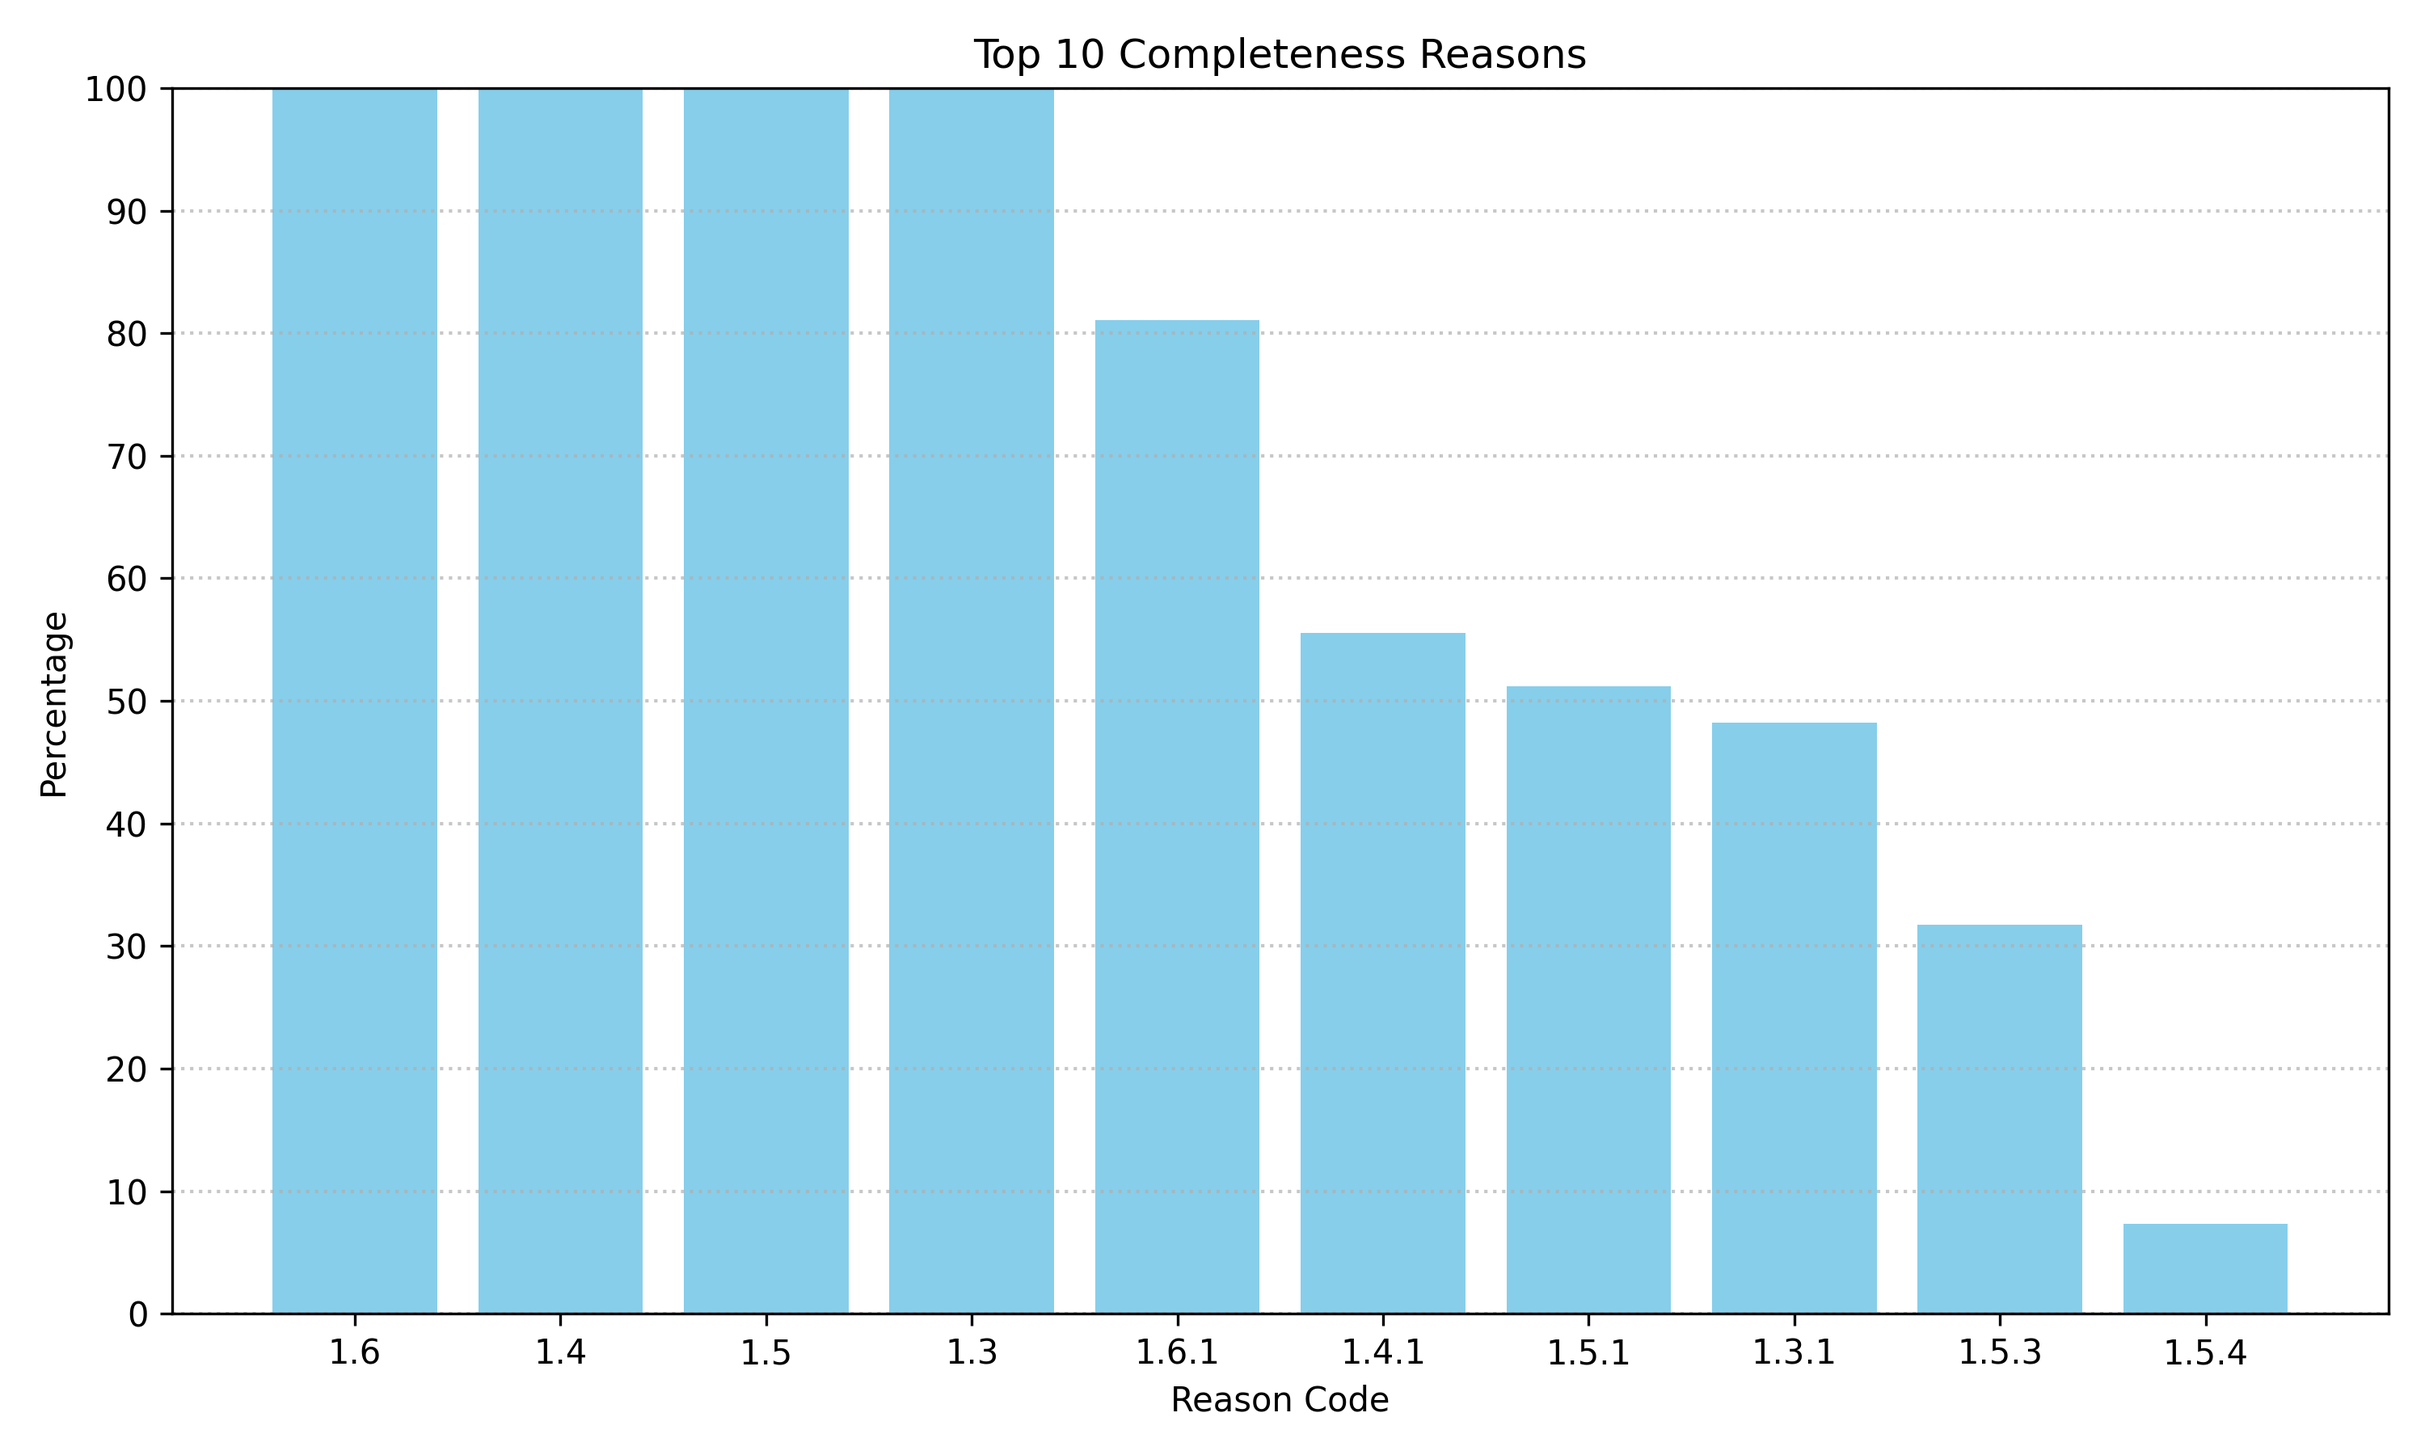
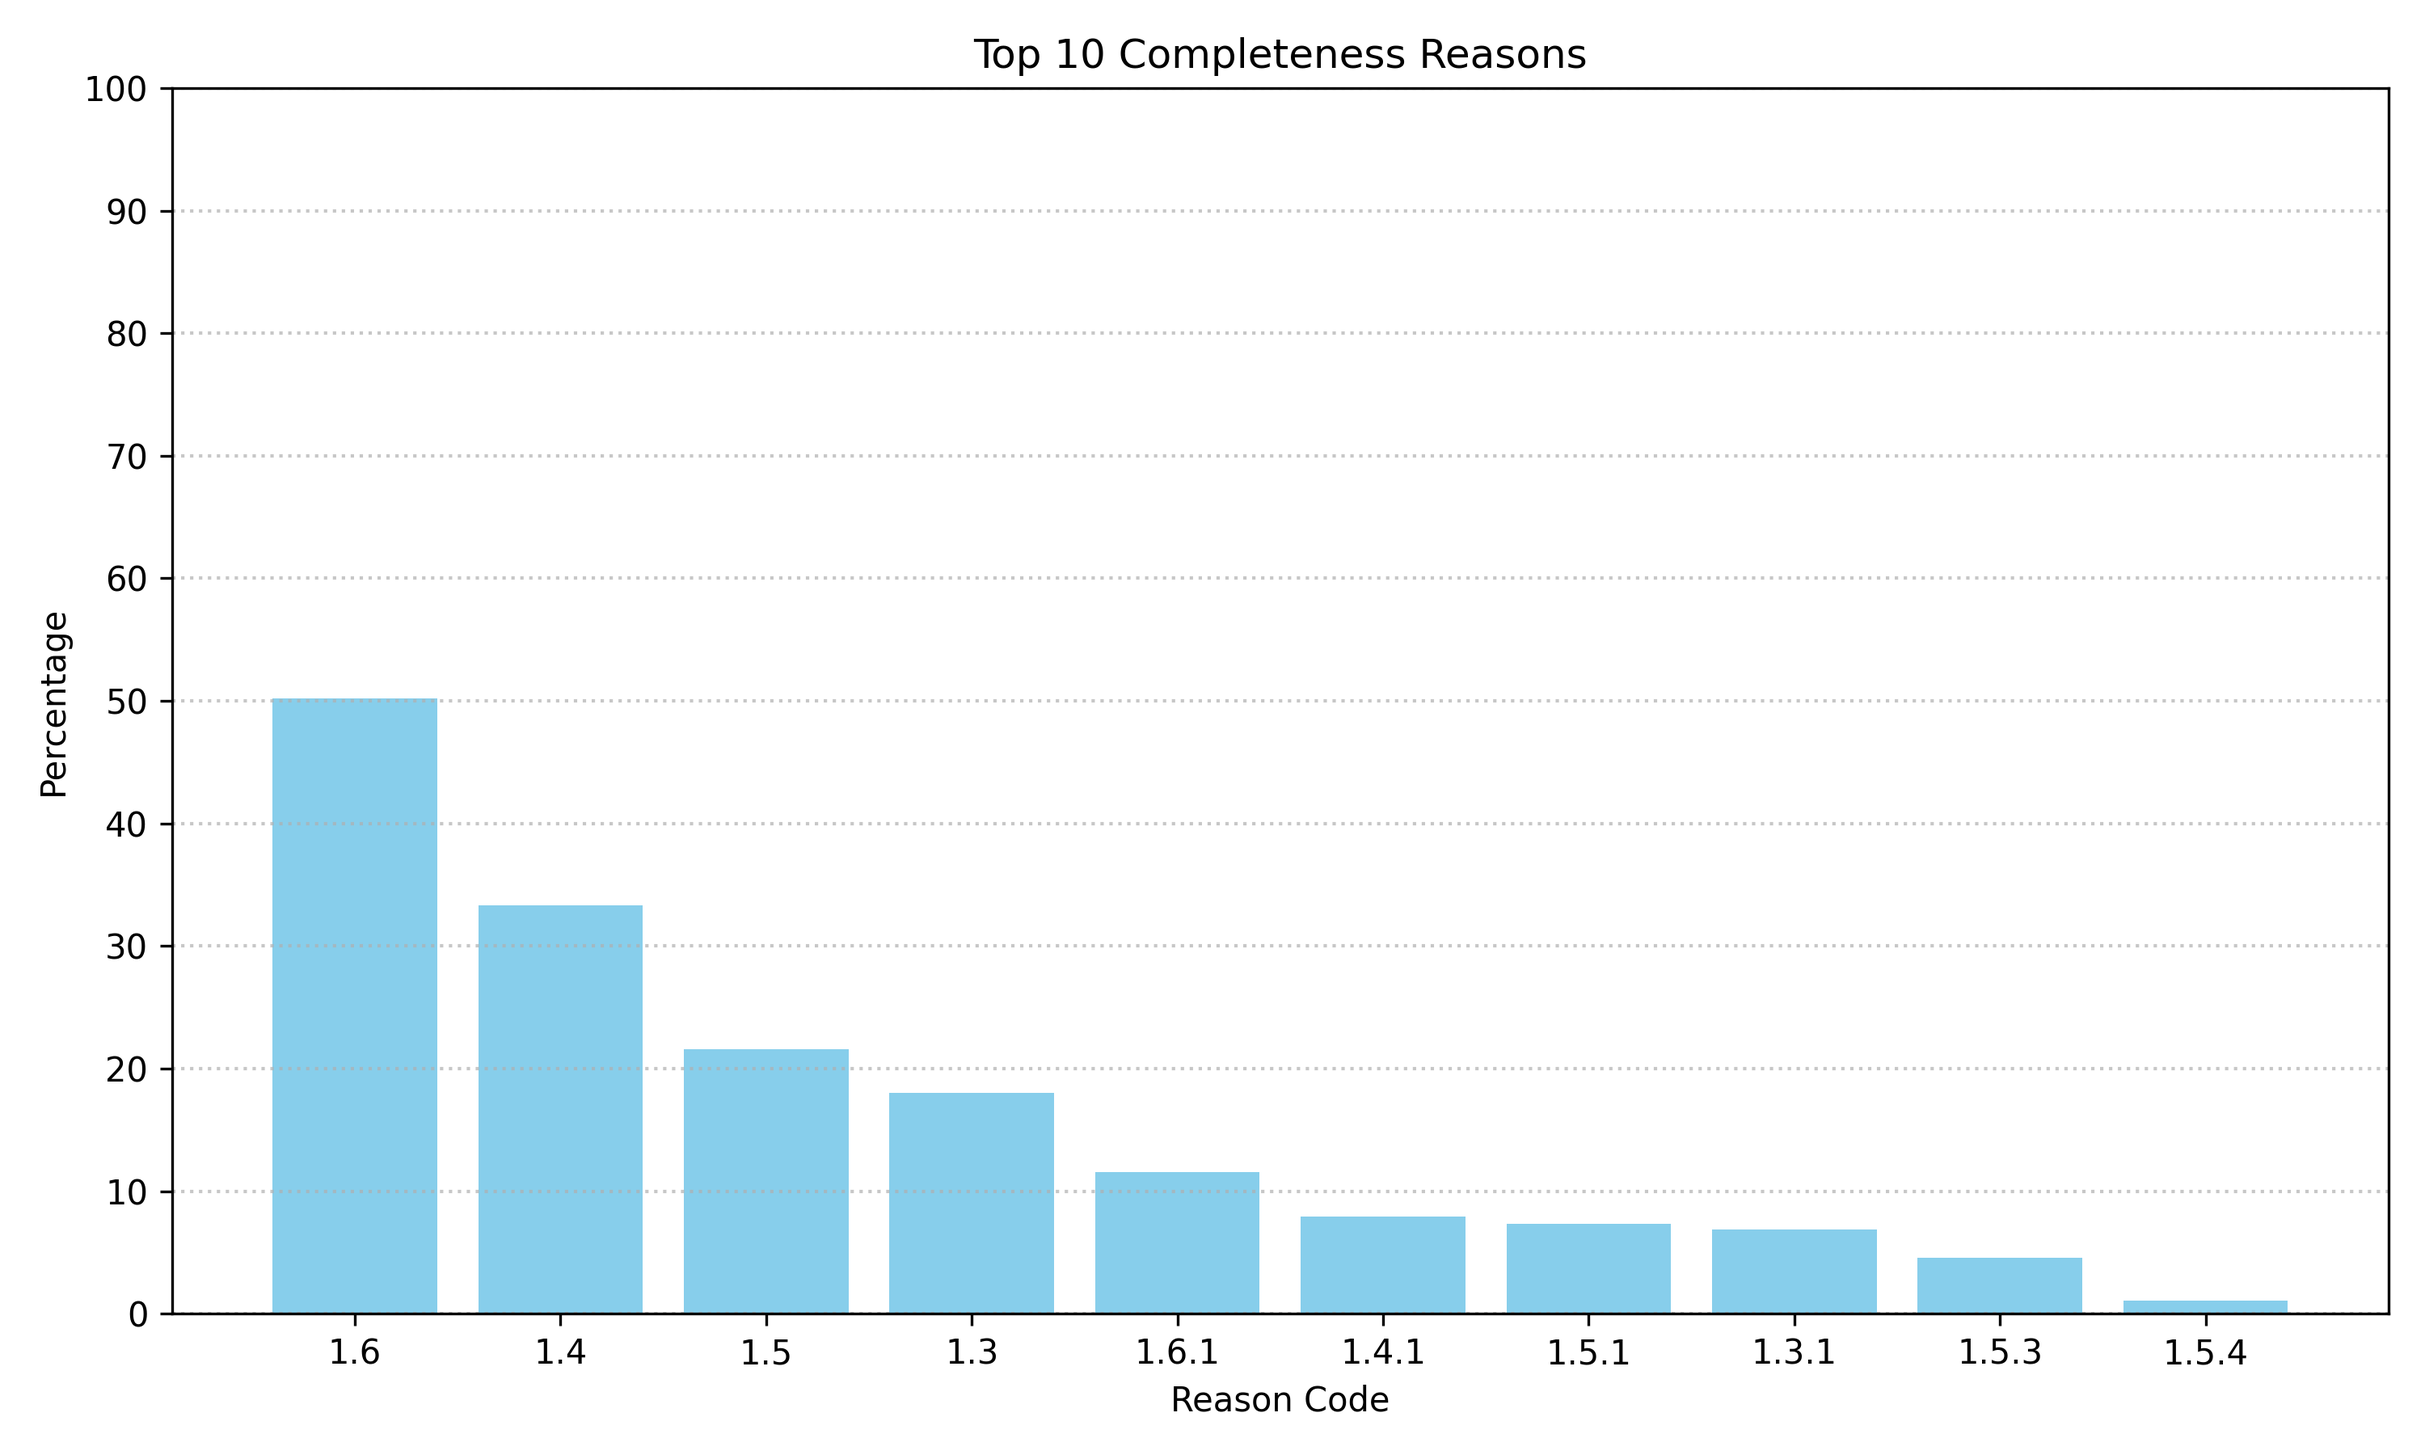
RQ1 diagrams fixed for now. Toleration added. Toleration may need to be capped.

Changed region(s): [[0.093, 0.0622, 0.961, 0.9022]]

diff --git a/evaluation_analysis/rq1_diagram_generators.py b/evaluation_analysis/rq1_diagram_generators.py
@@ -4,12 +4,15 @@ import csv
 import numpy as np
 
 from helpers import get_num_of_requirements
-from general_diagram_generators import create_reason_counts, calc_normalized_reason_counts_general
+from general_diagram_generators import create_reason_counts, calc_normalized_reason_counts_general, plot_top_10_reasons
 
 
 def generate_rq1_diagrams(evals_info):
     create_non_smelly_score_percentages(evals_info)
     create_reason_counts(evals_info, calc_normalized_reason_counts_no_smells, context = 'Non-smelly Variants Only', requested_variants = ['no_smells'], directory = 'rq1')
+    create_non_smelly_score_percentages_both_comp_corr_true(evals_info)
+    # Also creates tolerated reason counts and tolerated comp and corr true
+    create_non_smelly_score_percentages_tolerated(evals_info)
 
 
 def create_non_smelly_score_percentages(evals_info):
@@ -81,5 +84,257 @@ def create_non_smelly_score_percentages(evals_info):
     plt.savefig("evaluation_analysis/diagrams/rq1/completeness_correctness_percentages.png", dpi=300, bbox_inches='tight')
 
 
+def create_non_smelly_score_percentages_both_comp_corr_true(evals_info):
+    percentages_dict = {}
+    total_comp_corr_percentage = 0
+    for game, results in evals_info.items():
+        game_req_count = get_num_of_requirements(game)
+        game_no_smells_total_comp_corr_one = 0
+        # Checking each no-smells variant
+        for req_id_str, req_result in results['no_smells'].items():
+            if req_id_str != 'total':
+                if req_result['completeness'] == 1 and req_result['correctness'] == 1:
+                    game_no_smells_total_comp_corr_one = game_no_smells_total_comp_corr_one + 1
+        comp_corr_one_percentage = (int(game_no_smells_total_comp_corr_one) / game_req_count) * 100
+        percentages_dict[game] = {
+            'comp_corr_percentage': comp_corr_one_percentage,
+        }
+        total_comp_corr_percentage = total_comp_corr_percentage + comp_corr_one_percentage
+    
+    avg_comp_corr = total_comp_corr_percentage / 5
+    percentages_dict['average'] = {
+        'comp_corr_percentage': avg_comp_corr
+    }
+
+    # Ordered keys
+    ordered_keys = ['average', 'dice_game', 'arkanoid', 'snake', 'scopa', 'pong']
+    comp_and_corr = [percentages_dict[k]["comp_corr_percentage"] for k in ordered_keys]
+
+    # Plot config
+    bar_width = 0.6
+    group_spacing = 0.4
+    num_groups = len(ordered_keys)
+    x_positions = np.arange(num_groups)
+
+    # Create plot
+    fig, ax = plt.subplots(figsize=(6, 6))
+
+    # Plot bars
+    ax.bar(x_positions, comp_and_corr, width=bar_width, color='red', label='Completeness and Correctness')
+
+    # Labels and title
+    ax.set_ylabel('Percentage')
+    chart_title = 'Comp. and Corr. Both True Percentages (Non-Smelly Variants Only)'
+    ax.set_title(chart_title)
+
+    # Correctly center tick labels under each group
+    ax.set_xticks(x_positions)
+    ax.set_xticklabels(ordered_keys, rotation=45, ha='center')  # <== ha='center' is key here
+
+    ax.set_ylim(0, 100)
+    ax.set_yticks(np.arange(0, 101, 10))
+    ax.legend()
+
+    # Optional: Horizontal grid
+    ax.yaxis.grid(True, linestyle='--', linewidth=0.5)
+
+    plt.tight_layout()
+    
+    os.makedirs("evaluation_analysis/diagrams/rq1", exist_ok=True)
+    plt.savefig("evaluation_analysis/diagrams/rq1/completeness_correctness_percentages_both_true.png", dpi=300, bbox_inches='tight')
+
+
 def calc_normalized_reason_counts_no_smells(reasons_dict):
     return calc_normalized_reason_counts_general(reasons_dict, all_evals = False)
+
+
+def create_non_smelly_score_percentages_tolerated(evals_info):
+    comp_corr_one_percentages_dict = {}
+    total_comp_corr_one_percentage = 0
+
+    percentages_dict = {}
+    reasons_dict = {
+        'completeness_reasons': {},
+        'correctness_reasons': {},
+    }
+
+    tolerated_completeness_reasons = ['1.3', '1.3.1', '1.4.1', '1.5.1', '1.6', '1.6.1']
+    tolerated_completeness_reasons_set = set(tolerated_completeness_reasons)
+    tolerated_correctness_reasons = ['2.3', '2.3.1', '2.3.2', '2.3.3', '2.4.1', '2.5.1', '2.6', '2.6.1']
+    tolerated_correctness_reasons_set = set(tolerated_correctness_reasons)
+
+    total_completeness_percentage = 0
+    total_correctness_percentage = 0
+    for game, results in evals_info.items():
+        total_comp_tol_count = 0
+        total_corr_tol_count = 0
+        game_req_count = get_num_of_requirements(game)
+        game_tolerated_comp_total = 0
+        game_tolerated_corr_total = 0
+        game_no_smells_total_comp_corr_one = 0
+        # Checking each no-smells variant
+        for req_id_str, req_result in results['no_smells'].items():
+            if req_id_str != 'total':
+                tolerate_completeness = False
+                tolerate_correctness = False
+                
+                # Toleration of less impactful smells
+                eval_completeness_reasons_set = set(req_result['completeness_reasons'])
+                eval_correctness_reasons_set = set(req_result['correctness_reasons'])
+                # The sets should not be empty
+                if eval_completeness_reasons_set and eval_completeness_reasons_set.issubset(tolerated_completeness_reasons_set):
+                    tolerate_completeness = True
+                if eval_correctness_reasons_set and eval_correctness_reasons_set.issubset(tolerated_correctness_reasons_set):
+                    tolerate_correctness = True
+                # If completeness can be tolerated and correctness only has 2.7, correctness can also be tolerated
+                elif req_result['correctness_reasons'] == ['2.7'] and tolerate_completeness:
+                    tolerate_correctness = True
+
+                if tolerate_completeness:
+                    total_comp_tol_count = total_comp_tol_count + 1
+                if tolerate_correctness:
+                    total_corr_tol_count = total_corr_tol_count + 1
+
+                # For calculating the tolerated no smelly reason percentages
+                reason_types = ['completeness_reasons', 'correctness_reasons']
+                for reason_type in reason_types:
+                    # Skipping the tolerated reasons
+                    if (reason_type == 'completeness_reasons' and tolerate_completeness) or (reason_type == 'correctness_reasons' and tolerate_correctness):
+                        continue
+                    if reason_type in req_result and req_result[reason_type]:
+                        for reason in req_result[reason_type]:
+                            if reason in reasons_dict[reason_type]:
+                                reasons_dict[reason_type][reason] = reasons_dict[reason_type][reason] + 1
+                            else:
+                                reasons_dict[reason_type][reason] = 1
+
+                completeness_to_aggregate = 1 if tolerate_completeness else req_result['completeness']
+                correctness_to_aggregate = 1 if tolerate_correctness else req_result['correctness']
+
+                # For generating comp corr one tolerated percentages
+                if completeness_to_aggregate == 1 and correctness_to_aggregate == 1:
+                    game_no_smells_total_comp_corr_one = game_no_smells_total_comp_corr_one + 1
+                
+                game_tolerated_comp_total = game_tolerated_comp_total + completeness_to_aggregate
+                game_tolerated_corr_total = game_tolerated_corr_total + correctness_to_aggregate
+
+        print(f"Game: {game}, comp tol count: {total_comp_tol_count}, corr tol count: {total_corr_tol_count}")
+        
+        # For generating comp corr one tolerated percentages
+        comp_corr_one_percentage = (int(game_no_smells_total_comp_corr_one) / game_req_count) * 100
+        comp_corr_one_percentages_dict[game] = {
+            'comp_corr_percentage': comp_corr_one_percentage,
+        }
+        total_comp_corr_one_percentage = total_comp_corr_one_percentage + comp_corr_one_percentage
+        
+        completeness_percentage = (int(game_tolerated_comp_total) / game_req_count) * 100
+        correctness_percentage = (int(game_tolerated_corr_total) / game_req_count) * 100
+        percentages_dict[game] = {
+            'completeness_percentage': completeness_percentage,
+            'correctness_percentage': correctness_percentage,
+        }
+        total_completeness_percentage = total_completeness_percentage + completeness_percentage
+        total_correctness_percentage = total_correctness_percentage + correctness_percentage
+    
+    avg_comp_corr = total_comp_corr_one_percentage / 5
+    comp_corr_one_percentages_dict['average'] = {
+        'comp_corr_percentage': avg_comp_corr
+    }
+
+    create_non_smelly_tolerated_comp_corr_one(comp_corr_one_percentages_dict)
+    
+    avg_completeness = total_completeness_percentage / 5
+    avg_correctness = total_correctness_percentage / 5
+    percentages_dict['average'] = {
+        'completeness_percentage': avg_completeness,
+        'correctness_percentage': avg_correctness,
+    }
+
+    normalized_reasons_dict = calc_normalized_reason_counts_general(reasons_dict, all_evals = False)
+
+    # Plot and save diagrams
+    plot_top_10_reasons(normalized_reasons_dict['completeness_reasons'], "Top 10 Completeness Reasons (Non-smelly Variants Only)", "completeness_reasons_tolerated.png", 'rq1')
+    plot_top_10_reasons(normalized_reasons_dict['correctness_reasons'], "Top 10 Correctness Reasons (Non-smelly Variants Only)", "correctness_reasons_tolerated.png", 'rq1')
+
+    # Ordered keys
+    ordered_keys = ['average', 'dice_game', 'arkanoid', 'snake', 'scopa', 'pong']
+    completeness = [percentages_dict[k]["completeness_percentage"] for k in ordered_keys]
+    correctness = [percentages_dict[k]["correctness_percentage"] for k in ordered_keys]
+
+    # Plot config
+    bar_width = 0.35
+    group_spacing = 0.4
+    num_groups = len(ordered_keys)
+
+    # Compute X positions for group centers
+    group_centers = np.arange(num_groups) * (2 * bar_width + group_spacing)
+
+    # Create plot
+    fig, ax = plt.subplots(figsize=(10, 6))
+
+    # Plot bars
+    ax.bar(group_centers - bar_width / 2, completeness, width=bar_width, color='blue', label='Completeness')
+    ax.bar(group_centers + bar_width / 2, correctness, width=bar_width, color='red', label='Correctness')
+
+    # Labels and title
+    ax.set_ylabel('Percentage')
+    ax.set_title('Completeness vs. Correctness Percentages (Non-smelly Variants Only)')
+
+    # Correctly center tick labels under each group
+    ax.set_xticks(group_centers)
+    ax.set_xticklabels(ordered_keys, rotation=45, ha='center')  # <== ha='center' is key here
+
+    ax.set_ylim(0, 100)
+    ax.set_yticks(np.arange(0, 101, 10))
+    ax.legend()
+
+    # Vertical separator after 'average'
+    separator_x = group_centers[0] + bar_width + group_spacing / 2
+    ax.axvline(separator_x, color='gray', linestyle='--', linewidth=1)
+
+    # Optional: Horizontal grid
+    ax.yaxis.grid(True, linestyle='--', linewidth=0.5)
+
+    plt.tight_layout()
+    
+    os.makedirs("evaluation_analysis/diagrams/rq1", exist_ok=True)
+    plt.savefig("evaluation_analysis/diagrams/rq1/completeness_correctness_percentages_tolerated.png", dpi=300, bbox_inches='tight')
+
+
+def create_non_smelly_tolerated_comp_corr_one(percentages_dict):
+    # Ordered keys
+    ordered_keys = ['average', 'dice_game', 'arkanoid', 'snake', 'scopa', 'pong']
+    comp_and_corr = [percentages_dict[k]["comp_corr_percentage"] for k in ordered_keys]
+
+    # Plot config
+    bar_width = 0.6
+    group_spacing = 0.4
+    num_groups = len(ordered_keys)
+    x_positions = np.arange(num_groups)
+
+    # Create plot
+    fig, ax = plt.subplots(figsize=(6, 6))
+
+    # Plot bars
+    ax.bar(x_positions, comp_and_corr, width=bar_width, color='red', label='Completeness and Correctness')
+
+    # Labels and title
+    ax.set_ylabel('Percentage')
+    chart_title = 'Comp. and Corr. Both True Percentages (Non-Smelly Variants Only)'
+    ax.set_title(chart_title)
+
+    # Correctly center tick labels under each group
+    ax.set_xticks(x_positions)
+    ax.set_xticklabels(ordered_keys, rotation=45, ha='center')  # <== ha='center' is key here
+
+    ax.set_ylim(0, 100)
+    ax.set_yticks(np.arange(0, 101, 10))
+    ax.legend()
+
+    # Optional: Horizontal grid
+    ax.yaxis.grid(True, linestyle='--', linewidth=0.5)
+
+    plt.tight_layout()
+    
+    os.makedirs("evaluation_analysis/diagrams/rq1", exist_ok=True)
+    plt.savefig("evaluation_analysis/diagrams/rq1/completeness_correctness_percentages_tolerated_both_true.png", dpi=300, bbox_inches='tight')

diff --git a/evaluation_analysis/general_diagram_generators.py b/evaluation_analysis/general_diagram_generators.py
@@ -89,7 +89,7 @@ def calc_normalized_reason_counts_general(reasons_dict, all_evals = True):
                         reason_counts[reason] = int(value)
                         # There are 7 variants for each game
                         if all_evals:
-                            reason_counts[reason] * 7
+                            reason_counts[reason] = reason_counts[reason] * 7
 
     for reason, count in reasons_dict['completeness_reasons'].items():
         reason_prefix = reason[0:3]
